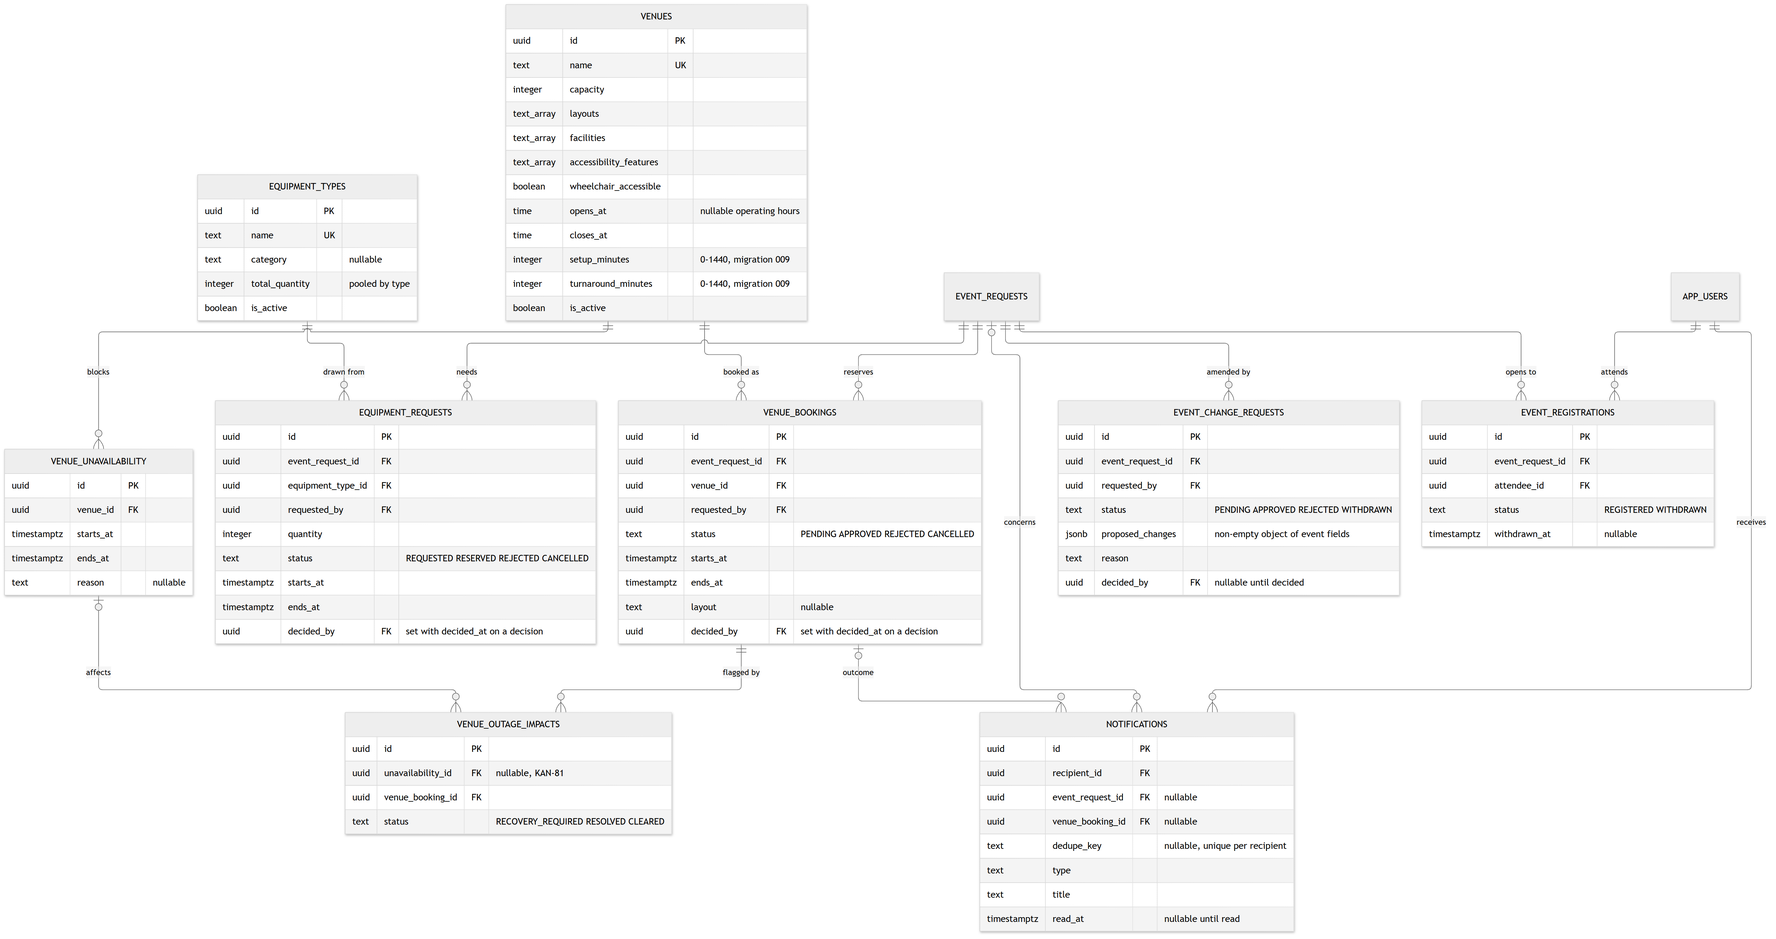
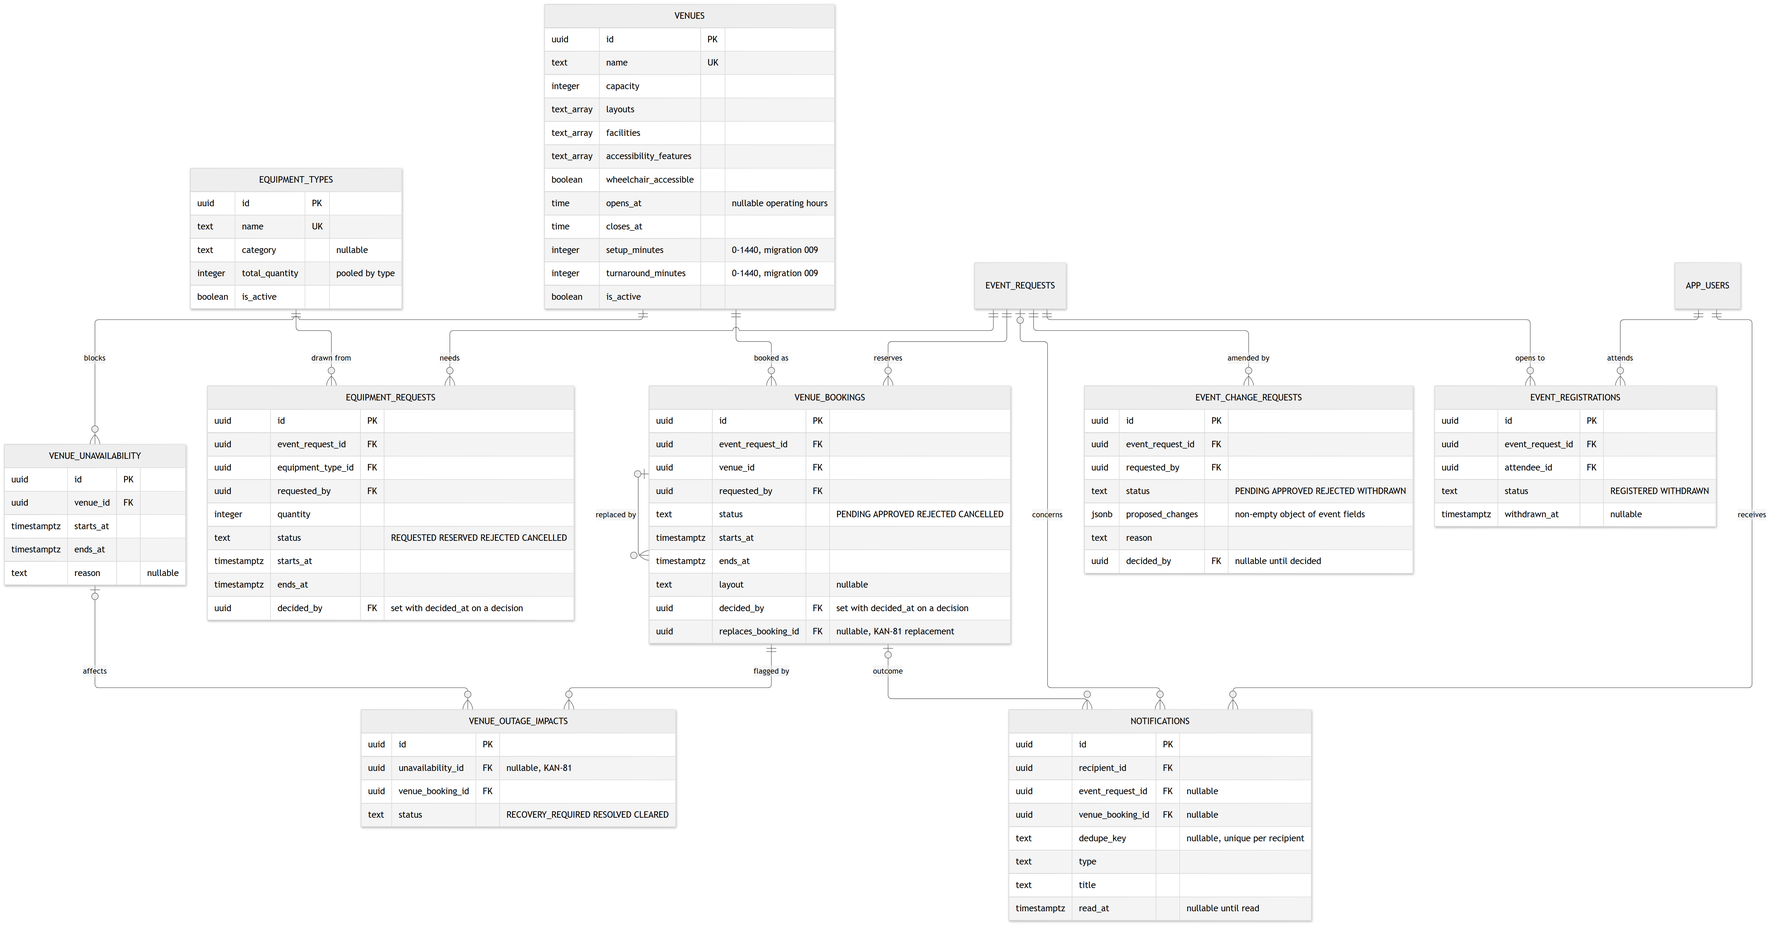
docs(KAN-81): record phase 3 implementation, evidence, decisions and ERD
Claude-Session: https://claude.ai/code/session_01P5QCEa5HQYyAcQdoCV6HYQ

diff --git a/docs/scrum/sprint-03/sprint-backlog.md b/docs/scrum/sprint-03/sprint-backlog.md
@@ -67,7 +67,7 @@ Every row requires its complete active criterion set plus applicable Definition 
 | S3-T20 | KAN-79: AC1, AC2, AC3, AC4, AC5, AC6, AC7, AC8, AC9, AC10 | TC-05-01, TC-05-02, TC-05-03, TC-05-04, TC-05-05, TC-05-06, TC-05-07, TC-05-08, TC-05-09, TC-05-17–28; TC-05-46–47 | Automated AC1–8/local AC10 pass: AUTO-20261019-01; AC9 reassignment locally verified by AUTO-20261019-02; 21 October timing regressions pass AUTO-20261021-KAN79-02/03 (S3-E18); KAN-64 and hosted workflow checks **Not executed**; acceptance **Not assessed** **21 October combined follow-up: allocation-notification transactions/privacy pass AUTO-20261021-INTEGRATION-05; deterministic browser regression passes INTEGRATION-06. Complete hosted AC9/AC10 remains Not executed.** |
 | S3-T21 | KAN-65: AC1, AC2, AC3, AC4, AC5, AC6, AC7, AC8, AC101, AC102, AC103, AC104 | TC-05-10–16; TC-05-48; automated cases linked in traceability | Automated reassignment checks pass: AUTO-20261019-02; 21 October logout regression passes AUTO-20261021-KAN79-02/03 (S3-E18); KAN-64 notifications and manual/hosted checks **Not executed**; acceptance **Not assessed** **21 October combined follow-up: handover/no-op notification integration passes AUTO-20261021-INTEGRATION-05; browser regression passes INTEGRATION-06. Complete hosted group remains Not executed.** |
 | S3-T22 | KAN-64: AC201, AC202, AC203, AC204, AC205, AC206, AC207, AC208, AC209 | TC-20-12, TC-20-13, TC-20-14, TC-20-15, TC-20-16, TC-20-17, TC-20-18, TC-20-19, TC-20-20; TC-20-30–37 | **Partly executed**: TC-20-17 privacy integration passes in AUTO-20261021-KAN64-03. Other recorded automated checks support portions of TC-20-12–16/18/19; the full concurrency/overlapping-recipient cases, manual runs and TC-20-20 remain **Not executed**. Acceptance **Not assessed**. **21 October combined follow-up: eight lifecycle cases pass AUTO-20261021-INTEGRATION-02; notification PostgreSQL/browser checks pass INTEGRATION-05/06. Full TC-20-18/19/20 and hosted acceptance remain Not executed / Not assessed.** |
-| S3-T25 | KAN-81: AC1, AC2, AC3, AC4, AC5, AC6, AC7, AC8, AC9, AC10, AC11, AC12 | TC-09-01, TC-09-02, TC-09-03, TC-09-04, TC-09-05, TC-09-06, TC-09-07, TC-09-08, TC-09-09, TC-09-10, TC-09-11, TC-09-12 | **Not executed** as a complete group. 21 October 2026, phase 1: AC1–AC4, AC9 (planning effects), AC10, AC11 and the staff side of AC6/AC12 have passing unit/component checks in `AUTO-20261021-08`; PostgreSQL and browser cases passed in PR #47 CI; scoped results are TC-09-13–17 in the phase-1 review follow-up. Phase 2 (AC5, coordinator side of AC6/AC12): unit/component checks pass in `AUTO-20261021-09`; scoped TC-09-18–20 pass in PR #49 CI (`AUTO-20261021-KAN81-P2-CI-02`) after a failing test-fixture run (`AUTO-20261021-KAN81-P2-CI-01`). AC7, AC8, hold cases and the readiness half of AC9 are Not executed. |
+| S3-T25 | KAN-81: AC1, AC2, AC3, AC4, AC5, AC6, AC7, AC8, AC9, AC10, AC11, AC12 | TC-09-01, TC-09-02, TC-09-03, TC-09-04, TC-09-05, TC-09-06, TC-09-07, TC-09-08, TC-09-09, TC-09-10, TC-09-11, TC-09-12 | **Not executed** as a complete group. 21 October 2026, phase 1: AC1–AC4, AC9 (planning effects), AC10, AC11 and the staff side of AC6/AC12 have passing unit/component checks in `AUTO-20261021-08`; PostgreSQL and browser cases passed in PR #47 CI; scoped results are TC-09-13–17 in the phase-1 review follow-up. Phase 2 (AC5, coordinator side of AC6/AC12): unit/component checks pass in `AUTO-20261021-09`; scoped TC-09-18–20 pass in PR #49 CI (`AUTO-20261021-KAN81-P2-CI-02`) after a failing test-fixture run (`AUTO-20261021-KAN81-P2-CI-01`). Phase 3 (AC7, AC8): unit/component checks pass in `AUTO-20261021-10`, PostgreSQL cases await CI. Hold cases and the readiness half of AC9 are Not executed. |
 | S3-T26 | KAN-83: AC1, AC2, AC3, AC4, AC5, AC6, AC7, AC8, AC9, AC10, AC11, AC12 | TC-14-08, TC-14-09, TC-14-10, TC-14-11, TC-14-12, TC-14-13, TC-14-14, TC-14-15, TC-14-16, TC-14-17, TC-14-18, TC-14-19 | **Not executed** / Not recorded |
 | S3-T27 | Integrated request/venue/Lead/recovery/hold workflow | TC-14-20 | **Not executed** / Not recorded |
 
@@ -938,6 +938,8 @@ Implementation defaults: docs/scrum/sprint-03/planning.md and docs/requirements/
 **KAN-81 phase 1 — 21 October 2026.** Branch `feat/KAN-81-outage-recovery`. Saving an outage over approved bookings now succeeds (AC2, replacing KAN-55's refusal per CR-2). Affected non-ended approved bookings are recorded in `venue_outage_impacts` in the same venue-locked transaction (AC3/AC4/AC10), booking and event rows are untouched, and removing an outage clears only its own flags (AC11). Venue Staff see affected arrangements per block and in a recovery list (`GET /api/venues/recovery`). Overlap uses the event interval through one condition that KAN-78 replaces with buffered occupancy; holds wait for KAN-83. Unit/component checks pass in `AUTO-20261021-08`. Phases 2 (AC5 notifications and the coordinator view) and 3 (AC7/AC8 replacements) follow; see the [phase 1 decisions](../../requirements/assumptions-and-questions.md#21-october-2026--kan-81-phase-1-outage-recovery-decisions). Migration 010 is not applied to shared Supabase. Hosted checks, independent review and acceptance remain outstanding.
 
 **KAN-81 phase 2 — 21 October 2026.** Branch `feat/KAN-81-phase-2-notifications`, stacked on the reviewed phase 1 (`30da68a`). Saving an outage now records one `VENUE_OUTAGE_RECOVERY_REQUIRED` notice per affected event for its current coordinator, in the same transaction and keyed per outage and event (AC5). Booking responses include each booking's `recovery` list, shown on the booking page to Venue Staff and the assigned coordinator, with a "Recovery required" marker in the coordinator's venue panel (AC6/AC12). Unit/component checks pass in `AUTO-20261021-09`. See the [phase 2 and 3 decisions](../../requirements/assumptions-and-questions.md#21-october-2026--kan-81-phases-2-and-3-decisions).
+
+**KAN-81 phase 3 — 21 October 2026.** Branch `feat/KAN-81-phase-3-replacements`, stacked on phase 2. Migration 011 links a replacement to the affected booking it replaces. The coordinator can mark a new request as a replacement from the venue panel; it must target a same-event booking that still needs recovery and pass capacity and opening-hours checks (AC7). Approving it resolves the original's recovery and cancels the original, keeping its history; a second replacement or a removed outage is refused (AC8). Unit/component checks pass in `AUTO-20261021-10`. See the [phase 3 rules](../../requirements/assumptions-and-questions.md#21-october-2026--kan-81-phase-3-replacement-rules).
 
 **Dependencies:** KAN-78 buffered occupancy calculation; KAN-64 persisted notification delivery and current-assignment recipient lookup; Existing KAN-53/KAN-8 booking creation and decision workflows.
 

diff --git a/database/README.md b/database/README.md
@@ -36,7 +36,7 @@ Verify the connection using the application's overview page or `GET /api/health/
 
 ## Shared schema and migrations
 
-The migration runner applies active numbered SQL files in order within one transaction, records checksums, and serializes concurrent runners using a database advisory lock. The active sequence is 001-010. Migration 008 (21 October 2026, KAN-64) adds the notification inbox columns and index; it is additive, existing rows are untouched, and it is **not applied** to shared Supabase until the team agrees (apply it with Arvin, as for 007). Migration 009 adds per-venue buffer settings and likewise has no recorded shared application. Migration 007 adds the Coordinator Lead role; its shared application and successful Lead login were reported on 19 October after the implementation. KAN-65 reuses this schema and adds no migration. On 30 September the unused Firebase migration was retired and the remaining files were renumbered without changing their SQL. New databases do not create its unused identity table. Existing databases keep their tables, data and original history names; the updated runner recognises the exact former filenames in the table below, checks every recorded checksum and skips SQL already applied under either name. It records a current filename only when that migration actually runs. A mismatched old or current checksum stops and rolls back the transaction. The retired Firebase file's checksum is still checked if its exact historical name is recorded; no missing history is fabricated. Run it again to apply only new migrations. Never edit an applied file: add the next numbered migration and coordinate numbering with other developers. Migrations run explicitly, never automatically on API startup. Back up important data before schema changes; this starter has no automatic rollback/down-migration facility.
+The migration runner applies active numbered SQL files in order within one transaction, records checksums, and serializes concurrent runners using a database advisory lock. The active sequence is 001-011. Migration 008 (21 October 2026, KAN-64) adds the notification inbox columns and index; it is additive, existing rows are untouched, and it is **not applied** to shared Supabase until the team agrees (apply it with Arvin, as for 007). Migration 009 adds per-venue buffer settings and likewise has no recorded shared application. Migration 007 adds the Coordinator Lead role; its shared application and successful Lead login were reported on 19 October after the implementation. KAN-65 reuses this schema and adds no migration. On 30 September the unused Firebase migration was retired and the remaining files were renumbered without changing their SQL. New databases do not create its unused identity table. Existing databases keep their tables, data and original history names; the updated runner recognises the exact former filenames in the table below, checks every recorded checksum and skips SQL already applied under either name. It records a current filename only when that migration actually runs. A mismatched old or current checksum stops and rolls back the transaction. The retired Firebase file's checksum is still checked if its exact historical name is recorded; no missing history is fabricated. Run it again to apply only new migrations. Never edit an applied file: add the next numbered migration and coordinate numbering with other developers. Migrations run explicitly, never automatically on API startup. Back up important data before schema changes; this starter has no automatic rollback/down-migration facility.
 
 | Current filename | Recognised former filename |
 | --- | --- |
@@ -162,3 +162,7 @@ For optional local application development, set `DATABASE_URL=postgresql://conne
 **Implementation record:** [010_venue_outage_impacts.sql](migrations/010_venue_outage_impacts.sql) adds `venue_outage_impacts`: one row per outage and affected approved booking, with a copy of the outage period and reason, a `RECOVERY_REQUIRED`/`RESOLVED`/`CLEARED` status and a unique index so reprocessing an outage records nothing twice. Deleting a block sets its `unavailability_id` to null and keeps the row as history. The table gets the same row-level security and Data API revocation as the other application tables. Fresh-install and upgrade checks run on an isolated PostgreSQL test database.
 
 **Not yet applied to shared Supabase.** It follows migrations 008 and 009 from the sprint 3 integration; agree the deployment window with the team first (AGENTS.md §7.3). The backend's block routes read and write this table and fail on a database without migration 010.
+
+## KAN-81 replacement link — 21 October 2026
+
+**Implementation record:** [011_venue_booking_replacements.sql](migrations/011_venue_booking_replacements.sql) adds nullable `venue_bookings.replaces_booking_id`, a self-reference from a replacement to the outage-affected booking it replaces, with a partial index. Existing rows get NULL and are unchanged. It follows 010 because PR #47 merged 010; an applied migration is never edited. Not applied to shared Supabase; agree the window with the team (AGENTS.md §7.3). The booking routes read this column and fail on a database without migration 011.

diff --git a/docs/testing/test-evidence.md b/docs/testing/test-evidence.md
@@ -1301,3 +1301,20 @@ shared test data is left behind. No push, remote merge or PR creation is perform
 **Gaps:** PostgreSQL cases (notice per event, dedupe on reprocessing, recovery visible to staff and assigned coordinator but not another coordinator, inbox link, cleared state after removal) await CI; execution rows will be added after CI. AC7/AC8 (phase 3), holds and readiness remain Not executed. KAN-81 stays In Progress.
 
 **CI follow-up — 21 October 2026, PR #49 (KAN-81 phase 2).** Run [39492721585](https://github.com/MochaLxtte/ConnectSphere/actions/runs/39492721585) (`AUTO-20261021-KAN81-P2-CI-01`, merge `92097c3` of head `8688bf6`) passed check, coverage (696 frontend, 1,210 backend) and migration/seed, but integration failed **402/403**: the new reprocessing case inserted an approved booking into a period it had just blocked at the same venue, which the `venue_bookings_conflict` trigger correctly refused. Browser tests did not run. Commit `f87b59d` moved that case to a second venue; feature code was unchanged. Run [39493384129](https://github.com/MochaLxtte/ConnectSphere/actions/runs/39493384129) (`AUTO-20261021-KAN81-P2-CI-02`, merge `0dd8fb5`) passed every step: integration **403/403** (`venue-outage-recovery` 23/23) and browser **148/148**. Case results are recorded as scoped TC-09-18 (Fail, then Pass), TC-09-19 and TC-09-20 in `test-executions.csv`; the broader TC-09-05/06/12 remain unexecuted.
+
+## 21 October 2026 — KAN-81 phase 3 replacement bookings
+
+**Run ID: AUTO-20261021-10.** Branch `feat/KAN-81-phase-3-replacements`, stacked on phase 2, code commits `e8310367face54ecbec4ef71de4369a6957b5129` (backend), `ac9639e` (frontend) and `981f8ab` (PostgreSQL tests and fixtures), with the tested working tree committed without code changes. Actual execution date: 21 October 2026, Asia/Singapore. Environment: Windows, Node.js 24, Vitest. No isolated PostgreSQL database locally; shared Supabase not used. Migration 011 not applied to any shared database.
+
+| Command / check | Actual result |
+| --- | --- |
+| `npm run check` | Pass: type checks, 702 frontend tests in 35 files and 1,228 backend tests in 44 files, both builds |
+| `npm run test:coverage` | Pass: the same tests |
+| `npm run test:integration` | **Not executed** locally: 13 phase 3 PostgreSQL cases and migration 011 in every migration expectation await CI |
+| `npm run test:e2e` | **Not executed** locally; booking browser fixtures gained `replacesBookingId: null`. No phase 3 browser test was added. |
+
+**New tests:** backend 18 (input parsing; request checks and refusals; approval lock order, resolution, cancellation and refusal; rejection) and frontend 6 (replacement choice and request body, omitted field, refusal reload, list marker, booking page link).
+
+**Coverage:** `booking-input.ts` and `outage-impact.ts` 100% lines and branches. In `booking-service.ts` every changed line and branch is covered; its remaining uncovered lines are pre-existing read and error paths covered by PostgreSQL suites. Workspace totals: frontend 95.27% statements / 92.65% branches / 97.16% functions / 97.64% lines; backend 88.65% / 90.84% / 88.60% / 89.12%.
+
[1 lines of base64/hex data omitted]

diff --git a/docs/requirements/assumptions-and-questions.md b/docs/requirements/assumptions-and-questions.md
@@ -1227,3 +1227,11 @@ Source: options proposed in chat on 21 October 2026. Kai Jie, the story owner, s
 2. **Suitability for a replacement (AC7, phase 3).** The objective checks are enforced automatically (active venue, capacity, operating hours, buffered availability and conflicts). Checks that need the coordinator's interpretation of free-text requirements stay advisory, consistent with KAN-52 and CR-6.
 3. **The original booking after an approved replacement (AC8, phase 3).** It becomes `CANCELLED`, keeping the row and its history, so it no longer reserves the venue. The `venue_bookings_conflict` trigger fires only for `APPROVED` rows, so this update is allowed even while the original overlaps the outage.
 4. **Coordinator view (AC6/AC12).** No new page: every booking response carries its `recovery` list, which the existing booking page shows to Venue Staff and the assigned coordinator. The coordinator's venue panel marks bookings that need recovery.
+
+## 21 October 2026 — KAN-81 phase 3 replacement rules
+
+Source: phase 3 design approved in chat by Kai Jie, the story owner, on 21 October 2026, applying the phase 2/3 decisions above. Implementation decisions within CR-2, not a team vote; the 8-SP estimate is unchanged.
+
+1. **Migration 011, not 010.** PR #47 merged migration 010, so the replacement link is a new additive migration (`venue_bookings.replaces_booking_id`). An applied migration is never edited.
+2. **Requesting a replacement (AC7).** `POST /api/events/:id/venue-bookings` accepts an optional `replacesBookingId`. The original must be a booking of the same event (otherwise `404 VENUE_BOOKING_NOT_FOUND`) that still needs recovery (otherwise `409 REPLACEMENT_NOT_NEEDED`), for an `APPROVED` or `CONFIRMED` event (otherwise `409 EVENT_NOT_ELIGIBLE_FOR_REPLACEMENT`). After the usual availability checks, a replacement must fit the expected attendance (`409 VENUE_CAPACITY_TOO_SMALL`) and the venue's opening hours (`409 VENUE_CLOSED_DURING_PERIOD`). Ordinary requests are unchanged.
+3. **Approving a replacement (AC8).** In the approval transaction, after the booking, event and venue locks and the conflict re-check, the original is locked and must still need recovery; otherwise `409 REPLACEMENT_NOT_NEEDED`. That covers a second replacement or a removed outage, and prevents double-booking the event. On approval the original's open flags become `RESOLVED` and the original becomes `CANCELLED`, keeping its row. A replacement may also be approved for a `CONFIRMED` event. Rejection changes nothing, so another attempt is possible.

diff --git a/docs/architecture/api-contract.md b/docs/architecture/api-contract.md
@@ -624,6 +624,8 @@ Tests live in `backend/test/venues/suitability-input.test.ts`, `suitability-rule
 
 **KAN-81 phase 2, 21 October 2026.** Every venue booking response (`GET /api/venue-bookings`, `GET /api/venue-bookings/:id`, submission and decision results) includes `recovery`: `[{ impactId, status, outageStartsAt, outageEndsAt, outageReason }]`, earliest outage first, empty when unaffected. Existing booking visibility rules apply. Saving an outage records a `VENUE_OUTAGE_RECOVERY_REQUIRED` notification for each affected event's current coordinator, linked to the booking, in the same transaction.
 
+**KAN-81 phase 3, 21 October 2026.** The booking submission body accepts optional `replacesBookingId` (UUID or null; `400 INVALID_REPLACED_BOOKING_ID` otherwise), and every booking response includes `replacesBookingId`. Replacement refusals: `404 VENUE_BOOKING_NOT_FOUND`, `409 REPLACEMENT_NOT_NEEDED`, `409 EVENT_NOT_ELIGIBLE_FOR_REPLACEMENT`, `409 VENUE_CAPACITY_TOO_SMALL`, `409 VENUE_CLOSED_DURING_PERIOD`, plus the usual conflict codes. Approving a replacement can return `409 REPLACEMENT_NOT_NEEDED`; on success the original becomes `CANCELLED` and its recovery `RESOLVED`. See the [phase 3 rules](../requirements/assumptions-and-questions.md#21-october-2026--kan-81-phase-3-replacement-rules).
+
 Current main provides Venue Staff-only `GET`/`POST /api/venues/:venueId/unavailability` and `DELETE /api/venues/:venueId/unavailability/:blockId`. Creation records an ordered time interval and a mandatory reason against the correct active venue; it refuses overlap with an existing approved booking. The shared `venue_unavailability` records feed the calendar, search, KAN-52 suitability and booking approval. See the [module contract](../../backend/src/modules/venues/README.md#venue-unavailability-blocks--kan-55) and [dated implementation record](../requirements/assumptions-and-questions.md#4-october-2026--kan-55-block-venue-for-operational-unavailability). Block removal is additional implementation behavior recorded there; inclusion in main does not itself establish hosted acceptance. KAN-53 creation is now integrated on this branch; its submission-time checks read the same operational blocks.
 
 ## Venue catalogue maintenance (KAN-50, CF-08)

diff --git a/docs/scrum/sprint-03/daily-progress.md b/docs/scrum/sprint-03/daily-progress.md
@@ -107,6 +107,8 @@ No hosted acceptance, Jira status change, sprint completion or velocity credit i
 
 **21 October 2026 — KAN-81 phase 2 development outside a Daily Scrum.** Rebased on the reviewed phase 1 (`30da68a`). Phase 2 on `feat/KAN-81-phase-2-notifications`: each affected event's coordinator is notified in the outage transaction and booking pages show the recovery state. `AUTO-20261021-09`: check and coverage pass; PostgreSQL cases await CI. Phase 3 (replacements) follows. KAN-81 stays In Progress at 8 SP.
 
+**21 October 2026 — KAN-81 phase 3 development outside a Daily Scrum.** Replacement bookings on `feat/KAN-81-phase-3-replacements` (migration 011): a coordinator can request a replacement for an outage-affected booking; approving it resolves the recovery and cancels the original. `AUTO-20261021-10`: check and coverage pass; PostgreSQL cases await CI. KAN-81 stays In Progress at 8 SP.
+
 ## Impediments
 
 | Raised | Impediment | Owner | Action | Status |

diff --git a/backend/src/modules/venues/README.md b/backend/src/modules/venues/README.md
@@ -133,7 +133,11 @@ saves the outage and, inside the same venue-locked transaction, records each aff
   deletes the block; other outages' flags are unchanged.
 - `GET /api/venues/recovery` lists affected arrangements for Venue Staff. Phase 2: each affected
   event's current coordinator gets one notice per outage (KAN-64 writer, same transaction), and every
-  booking response carries its `recovery` list. Linked replacements (phase 3) follow.
+  booking response carries its `recovery` list.
+- Phase 3: a request with `replacesBookingId` must target a same-event booking that still needs
+  recovery, for an approved or confirmed event, and pass capacity and opening-hours checks. Approving
+  it locks the original after booking -> event -> venue, refuses if recovery is no longer needed, then
+  resolves the original's flags and cancels it (migration 011).
 
 ### Verification
 

diff --git a/docs/architecture/README.md b/docs/architecture/README.md
@@ -368,6 +368,7 @@ erDiagram
   VENUES ||--o{ VENUE_UNAVAILABILITY : blocks
   VENUE_UNAVAILABILITY |o--o{ VENUE_OUTAGE_IMPACTS : affects
   VENUE_BOOKINGS ||--o{ VENUE_OUTAGE_IMPACTS : "flagged by"
+  VENUE_BOOKINGS |o--o{ VENUE_BOOKINGS : "replaced by"
   EQUIPMENT_TYPES ||--o{ EQUIPMENT_REQUESTS : "drawn from"
   APP_USERS ||--o{ EVENT_REGISTRATIONS : attends
   APP_USERS ||--o{ NOTIFICATIONS : receives
@@ -408,6 +409,7 @@ erDiagram
     timestamptz ends_at
     text layout "nullable"
     uuid decided_by FK "set with decided_at on a decision"
+    uuid replaces_booking_id FK "nullable, KAN-81 replacement"
   }
   EQUIPMENT_TYPES {
     uuid id PK

diff --git a/docs/database-diagram.md b/docs/database-diagram.md
@@ -45,6 +45,7 @@ erDiagram
     venues ||..o{ venue_unavailability : "venue_id"
     venue_unavailability |o..o{ venue_outage_impacts : "unavailability_id"
     venue_bookings ||..o{ venue_outage_impacts : "venue_booking_id"
+    venue_bookings |o..o{ venue_bookings : "replaces_booking_id"
 
     app_users {
         uuid id PK
@@ -176,6 +177,7 @@ erDiagram
         timestamptz decided_at "nullable"
         text decision_reason "nullable"
         timestamptz created_at
+        uuid replaces_booking_id FK "nullable, migration 011"
         timestamptz updated_at
     }
 
